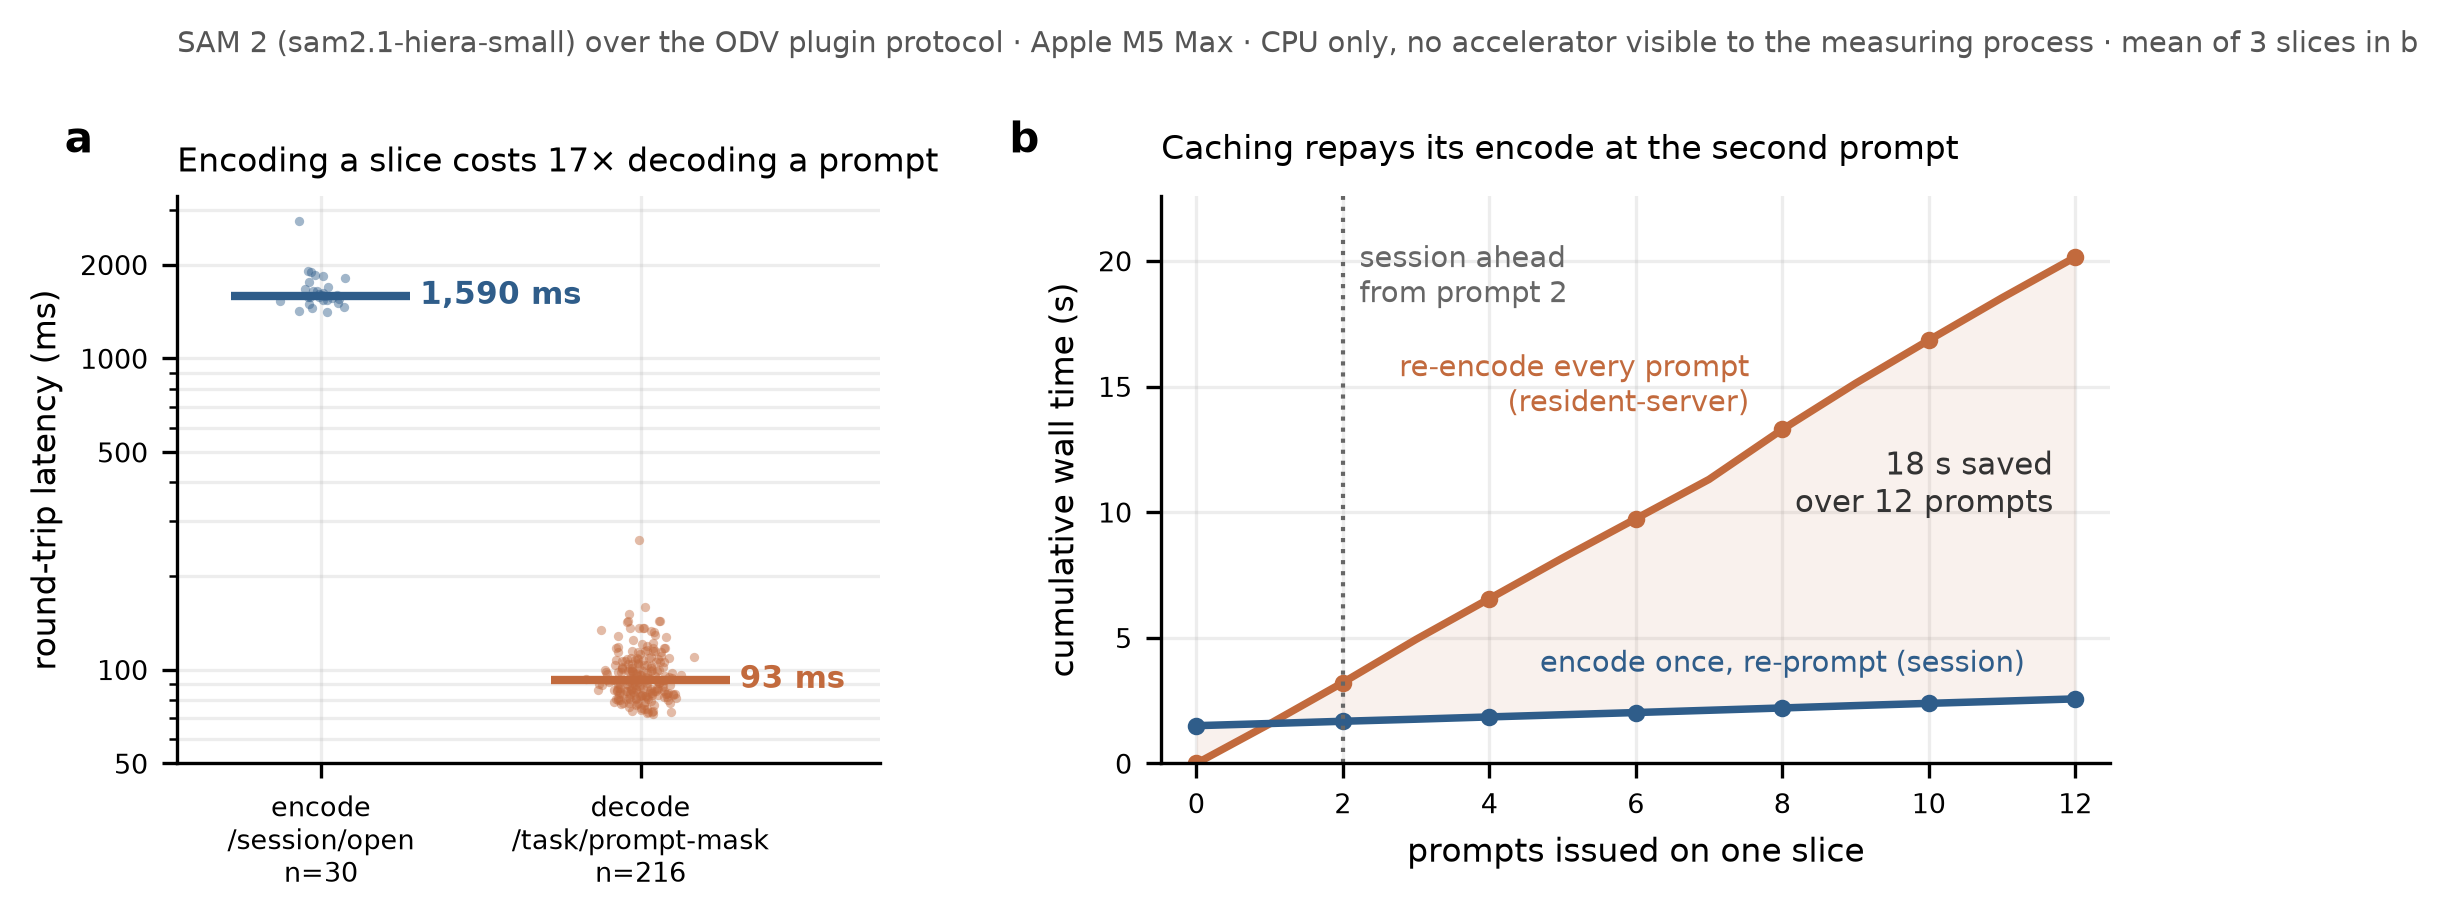
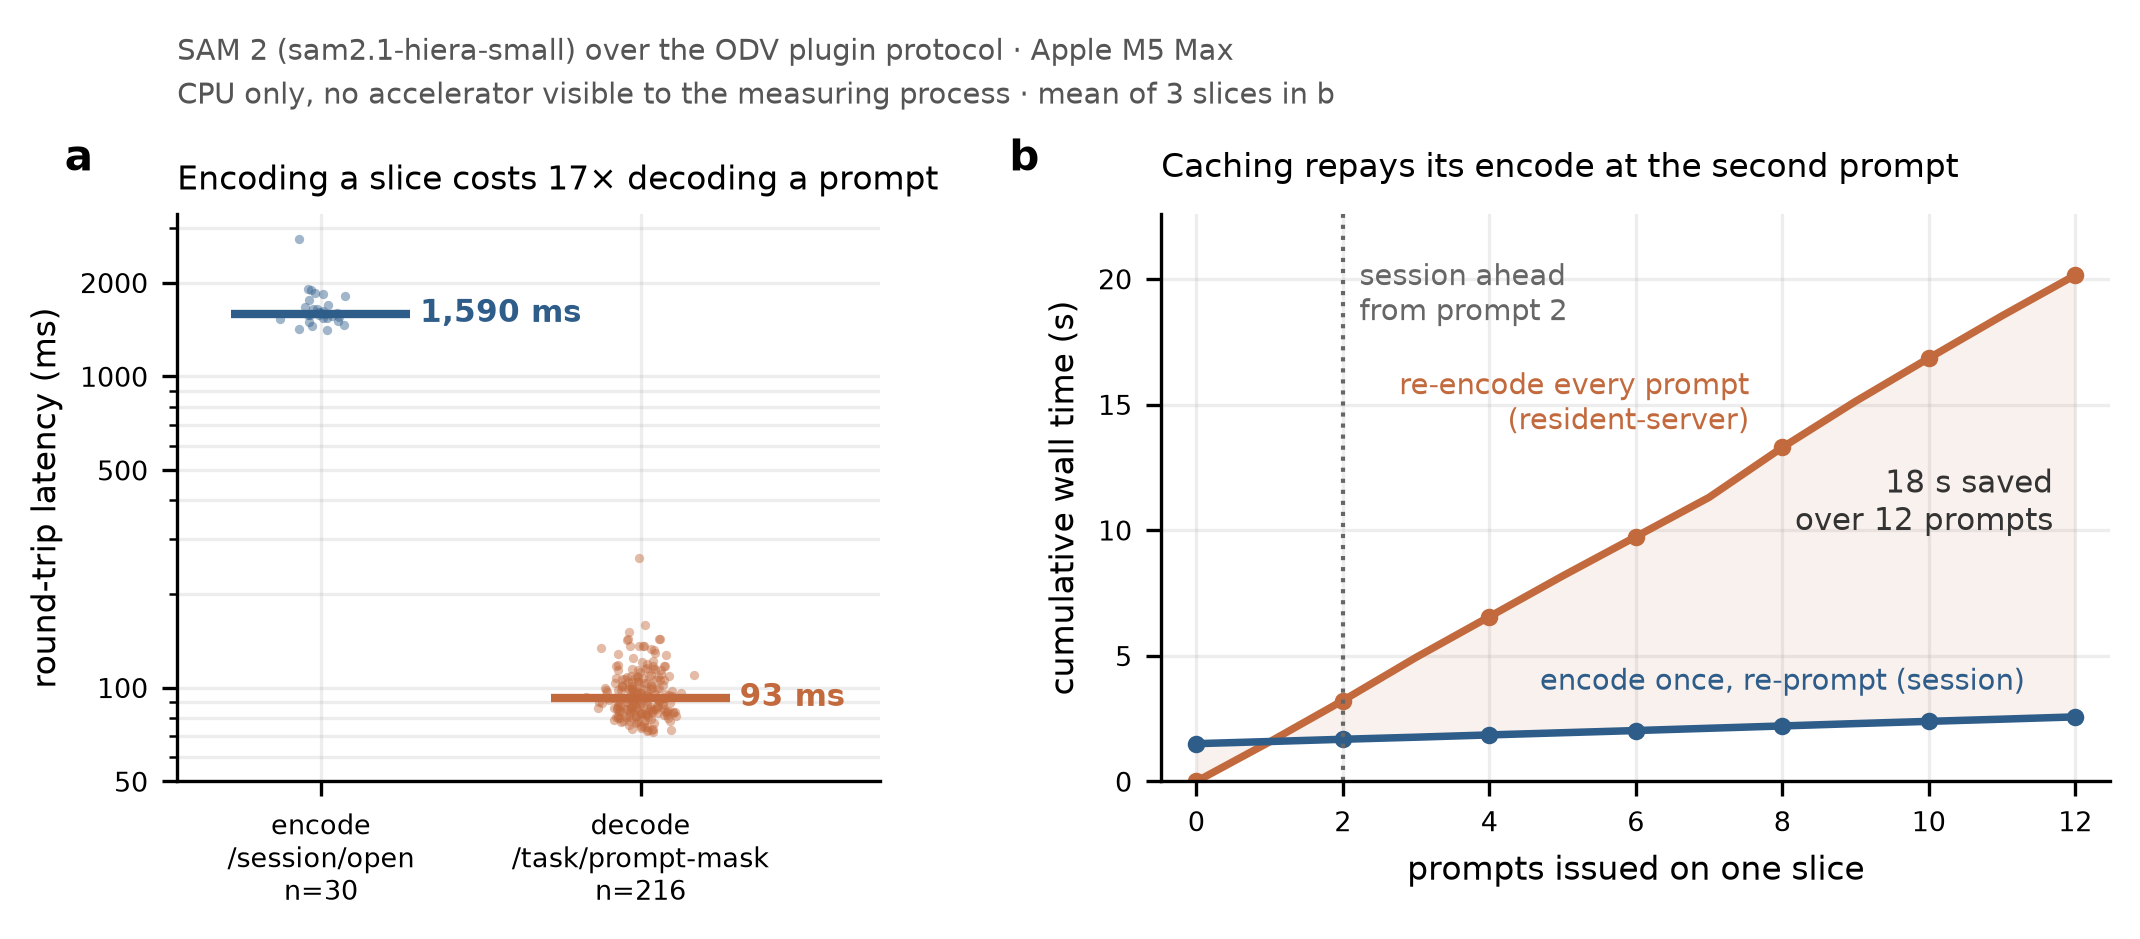
Add the paper's headline figure
Panel a contrasts declared against measured peak memory: TotalSegmentator
declared 3.5 GB and measured 21.4-23.1 GB across three runs, both far past the
budget the arbiter would allow on a 16 GB machine. Panel b shows the two
scenario pairs that make the consequence concrete — the same policy admits or
refuses depending only on whether a running one-shot is visible to it and which
memory figure it budgets against.

Decision markers carry shape as well as colour, so the sound/unsafe distinction
survives colour-vision deficiency rather than relying on a red/green pair.

diff --git a/eval/exp4_session.py b/eval/exp4_session.py
@@ -1634,10 +1634,14 @@ def make_figures(results_path: Path, figures_dir: Path) -> list[Path]:
                        loc="left", pad=9)
         panel_letter(ax_b, "b")
 
+    # Wrapped onto two lines: as one left-anchored line this ran past the right
+    # edge of the canvas and the device caveat — the part a reader most needs —
+    # was the piece that got clipped.
     fig.suptitle(
-        f"SAM 2 (sam2.1-hiera-small) over the ODV plugin protocol · {chip} · "
+        f"SAM 2 (sam2.1-hiera-small) over the ODV plugin protocol · {chip}\n"
         f"{device_note} · mean of {n_series} slices in b",
-        fontsize=7, y=0.985, color="#555555", x=0.09, ha="left")
+        fontsize=7, y=1.005, color="#555555", x=0.09, ha="left",
+        linespacing=1.5)
     path = figures_dir / "exp4_encode_decode.png"
     fig.savefig(path, dpi=300, bbox_inches="tight")
     plt.close(fig)
